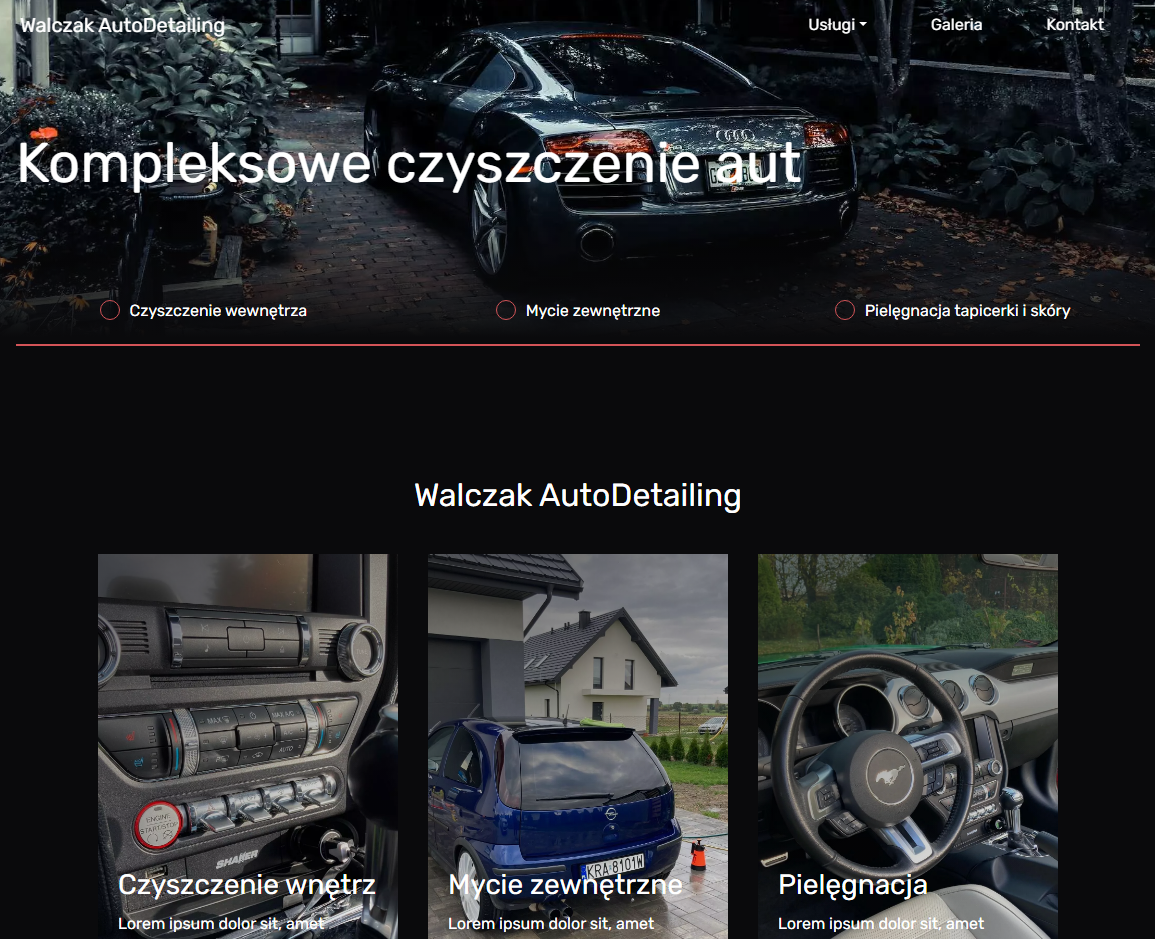
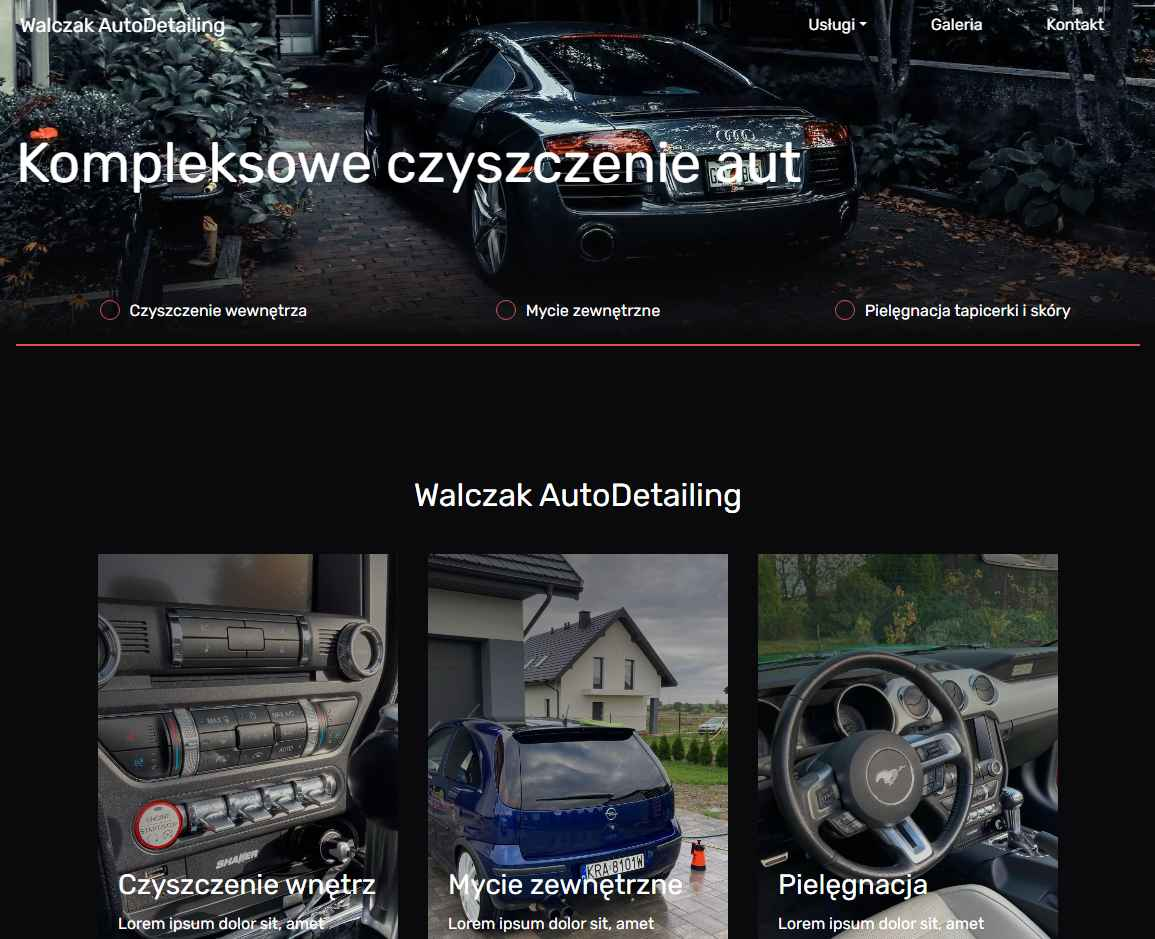
slider

diff --git a/src/components/Layout/Hero/Slider/Slider.js b/src/components/Layout/Hero/Slider/Slider.js
@@ -1,0 +1,73 @@
+import { useEffect, useState } from "react";
+import imageDev1 from "../../../../assets/devjobler.webp";
+import imageDev2 from "../../../../assets/devjobler-personpage.webp";
+import imageAutoDet1 from "../../../../assets/Auto-detailing-website.webp";
+import imageAutoDet2 from "../../../../assets/autodetailing.webp";
+import classes from "./Slider.module.scss";
+
+const Slider = () => {
+  const [frontImageIndex, setFrontImageIndex] = useState(0);
+  const [backImageIndex, setBackImageIndex] = useState(1);
+
+  const slides = [
+    {
+      id: 1,
+      url: imageDev1,
+      title: "devjobler1",
+    },
+    {
+      id: 2,
+      url: imageDev2,
+      title: "devjobler",
+    },
+    {
+      id: 3,
+      url: imageAutoDet1,
+      title: "autodetailing",
+    },
+    {
+      id: 4,
+      url: imageAutoDet2,
+      title: "autodetailing1",
+    },
+  ];
+
+  const slider = () => {
+    setTimeout(() => {
+      setFrontImageIndex((frontImageIndex + 1) % slides.length);
+      setBackImageIndex(frontImageIndex);
+    }, 3000);
+  };
+
+  useEffect(() => {
+    slider();
+  }, [frontImageIndex]);
+
+  const frontImage = (
+    <img
+      key={slides[backImageIndex].id}
+      src={slides[backImageIndex].url}
+      alt={slides[backImageIndex].title}
+      className={classes.frontImage}
+    />
+  );
+  const backImage = (
+    <img
+      key={slides[frontImageIndex].id}
+      src={slides[frontImageIndex].url}
+      alt={slides[frontImageIndex].title}
+      className={classes.backImage}
+    />
+  );
+
+  return (
+    <div className={classes.slider}>
+      <div>
+        {frontImage}
+        {backImage}
+      </div>
+    </div>
+  );
+};
+
+export default Slider;

diff --git a/src/components/Layout/Projects/ProjectItem.js b/src/components/Layout/Projects/ProjectItem.js
@@ -1,23 +1,27 @@
 import React from "react";
-import classes from "./Project.module.scss";
+import classes from "./ProjectItem.module.scss";
 import Tech from "./Tech";
 
-const Project = ({
-  key,
+const ProjectItem = ({
+  id,
   projectName,
   projectDescription,
   projectTechs,
   projectLink,
 }) => {
-  const tech = projectTechs.map((tech) => <Tech tech={tech} />);
+  const tech = projectTechs.map((tech) => (
+    <Tech tech={tech} />
+  ));
   return (
-    <div id={key} className={classes.project}>
+    <div key={id} className={classes.project}>
       <div className={classes.project__heading}>
         <h4>{projectName}</h4>
         <p>{projectDescription}</p>
       </div>
       <div className={classes.project__content}>
-        <div><ul className={classes.project__content__techList}>{tech}</ul></div>
+        <div>
+          <ul className={classes.project__content__techList}>{tech}</ul>
+        </div>
         <div>
           <a href={projectLink}>Check out</a>
         </div>
@@ -26,4 +30,4 @@ const Project = ({
   );
 };
 
-export default Project;
+export default ProjectItem;

diff --git a/src/components/Layout/Hero/Hero.js b/src/components/Layout/Hero/Hero.js
@@ -1,11 +1,10 @@
 import React from "react";
+import { Fragment } from "react";
 import Button from "../../UI/Button";
 import classes from "./Hero.module.scss";
 import donutImage from "../../../assets/donut.png";
-import autoDetailingImage from "../../../assets/Auto-detailing-website.webp";
-import test from "../../../assets/test.png";
 import HeroBackground from "./HeroBackground";
-import { Fragment } from "react";
+import Slider from "./Slider/Slider";
 
 const Hero = () => {
   return (
@@ -20,19 +19,8 @@ const Hero = () => {
           </h1>
           <Button text="Contact me" />
         </div>
-        <div className={classes.hero__projects}>
-          <div>
-            <img
-              src={autoDetailingImage}
-              alt="Auto Detailing website"
-              className={classes.projects}
-            />
-            <img
-              src={test}
-              alt="Auto Detailing website"
-              className={classes.projects}
-            />
-          </div>
+        <div>
+          <Slider />
         </div>
         <img
           src={donutImage}

diff --git a/src/components/Layout/Hero/Slider/Slider.module.scss b/src/components/Layout/Hero/Slider/Slider.module.scss
@@ -1,0 +1,35 @@
+@import '/src/styles/variables.scss';
+
+.slider {
+    position: relative;
+
+    div {
+        overflow: hidden;
+        width: 100%;
+        z-index: 1000;
+        transition: transform 1s ease-in-out;
+
+        img {
+            width: 400px;
+            height: 400px;
+            object-fit: cover;
+            z-index: -1;
+            border-radius: $borderRadius;
+            mask-image: linear-gradient(to bottom, rgba(0, 0, 0, 0.5) 50%, rgba(0, 0, 0, 0.95) 100%);
+            -webkit-mask-image: linear-gradient(to bottom, rgba(0, 0, 0, 0.5) 10%, rgba(0, 0, 0, 0.95) 20%);
+
+            .frontImage{
+
+            }
+        }
+
+        img:nth-child(2) {
+            width: 400px;
+            object-fit: cover;
+            position: absolute;
+            z-index: -1;
+            left: 70px;
+            top: 60px;
+        }
+    }
+}

diff --git a/src/components/Layout/Hero/Hero.module.scss b/src/components/Layout/Hero/Hero.module.scss
@@ -68,33 +68,6 @@
 
     }
 
-    &__projects {
-        position: relative;
-
-        div {
-            overflow: hidden;
-            width: 100%;
-            z-index: 1000;
-
-            img {
-                width: 400px;
-                object-fit: cover;
-                z-index: -1;
-                border-radius: $borderRadius;
-                mask-image: linear-gradient(to bottom, rgba(0, 0, 0, 0.5) 40%, rgba(0, 0, 0, 0.95) 100%);
-                -webkit-mask-image: linear-gradient(to bottom, rgba(0, 0, 0, 0.5) 0%, rgba(0, 0, 0, 0.95) 20%);
-            }
-
-            img:nth-child(2) {
-                width: 400px;
-                position: absolute;
-                z-index: -1;
-                left: 100px;
-                bottom: 100px;
-            }
-        }
-    }
-
     &__donut {
         position: absolute;
         width: 450px;

diff --git a/src/components/Layout/Projects/Tech.module.scss b/src/components/Layout/Projects/Tech.module.scss
@@ -1,19 +1,18 @@
 @import '/src/styles/variables.scss';
 
 .tech {
-    li {
-        color: $white;
-        background: linear-gradient(38deg, $pink, $pink_2);
-        border: none;
-        border-radius: 1em;
-        margin: 0.5em;
-        padding: 1.5em;
-        font-size: 1em;
-        letter-spacing: $letterSpacing;
-        transition: 0.2s;
+    color: $white;
+    background: linear-gradient(38deg, $pink, $pink_2);
+    border: none;
+    border-radius: 1em;
+    margin: 0.5em;
+    padding: 1.5em;
+    font-size: 1em;
+    letter-spacing: $letterSpacing;
+    transition: 0.2s;
+    cursor: default;
 
-        &:hover {
-            box-shadow: 0 0 30px $pink;
-        }
+    &:hover {
+        box-shadow: 0 0 30px $pink;
     }
 }

diff --git a/src/components/Layout/Projects/Projects.js b/src/components/Layout/Projects/Projects.js
@@ -1,5 +1,5 @@
 import React from "react";
-import Project from "./Project";
+import ProjectItem from "./ProjectItem";
 import classes from "./Projects.module.scss";
 
 const Projects = () => {
@@ -28,8 +28,8 @@ const Projects = () => {
   ];
 
   const projectList = projects.map((project) => (
-    <Project
-      key={project.id}
+    <ProjectItem
+      id={project.id}
       projectName={project.name}
       projectDescription={project.description}
       projectTechs={project.tech}

diff --git a/src/components/Layout/Footer/Footer.js b/src/components/Layout/Footer/Footer.js
@@ -1,11 +1,11 @@
 import React from "react";
+import Logo from "../../UI/Logo/Logo";
 import classes from "./Footer.module.scss";
 
 const Footer = () => {
   return (
     <footer className={classes.footer}>
-      <h2>OscarWallshack</h2>
-
+      <Logo />
       <div>
         <a target="_blank" href="https://github.com/oscarwallshack">
           GitHub

diff --git a/src/components/Layout/Projects/Tech.js b/src/components/Layout/Projects/Tech.js
@@ -1,10 +1,6 @@
 import classes from "./Tech.module.scss";
 const Tech = ({ tech }) => {
-  return (
-    <ul className={classes.tech}>
-      <li>{tech}</li>
-    </ul>
-  );
+  return <li className={classes.tech}>{tech}</li>;
 };
 
 export default Tech;

diff --git a/src/components/Layout/Footer/Footer.module.scss b/src/components/Layout/Footer/Footer.module.scss
@@ -1,0 +1,7 @@
+@use '/src/styles/variables.scss';
+
+.footer {
+    h2:hover {
+        color: white;
+    }
+}
